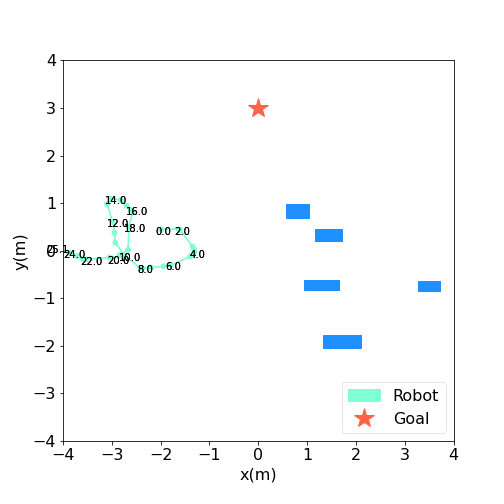
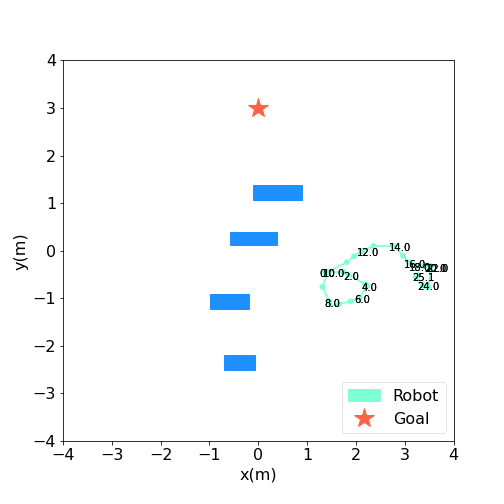
random obstacles with near 0 distance crashes check condition

diff --git a/crazyflie_env/envs/crazyflie_env.py b/crazyflie_env/envs/crazyflie_env.py
@@ -25,7 +25,7 @@ class CrazyflieEnv(gym.Env):
         self.random_init = True # randomly initialize robot position
         self.robot_po = True # partial observability of the robot
         self.random_obstacle = True
-        self.obstacle_num = 0
+        self.obstacle_num = None
         self._set_robot(Robot(self.robot_po))
 
         # # reward function
@@ -62,8 +62,8 @@ class CrazyflieEnv(gym.Env):
         self.left_wall = (self.BOTTOM_LEFT[0], self.BOTTOM_LEFT[1], self.UP_LEFT[0], self.UP_LEFT[1])
         self.walls = [self.front_wall, self.right_wall, self.back_wall, self.left_wall] # ((x1, y1), (x1', y1'))
 
-        self.obstacles = self.generate_obstacles(random_position=self.random_obstacle, obstacle_num=self.obstacle_num)
-        self.obstacle_segments = self.walls + self.obstacles2segments(self.obstacles) # list of segments (x1, y1, x1', y1')
+        #self.obstacles = self.generate_obstacles(random_position=self.random_obstacle, obstacle_num=self.obstacle_num)
+        #self.obstacle_segments = self.walls + self.obstacles2segments(self.obstacles) # list of segments (x1, y1, x1', y1')
 
         # visualization, store full state of the robot
         self.states = None
@@ -72,6 +72,10 @@ class CrazyflieEnv(gym.Env):
     def _set_robot(self, robot):
         self.robot = robot
         self.robot.time_step = self.time_step
+
+
+    def set_obstacle_num(self, num):
+        self.obstacle_num = num
 
 
     def obstacles2segments(self, obstacles=[]):
@@ -134,7 +138,7 @@ class CrazyflieEnv(gym.Env):
         else:
             # TODO: possible region where obstacle can exist (excluding goal and start region)
             # TODO: choose density of the obstacles (increase as learning goes on)
-            poses = [np.random.uniform(low=(-2.5, -2.5), high=(2.5, 2), size=(2,)) for _ in range(obstacle_num)]
+            poses = [np.random.uniform(low=(-1, -2.5), high=(1, 2), size=(2,)) for _ in range(obstacle_num)]
             wxs = [np.random.uniform(low=0.4, high=1.0) for _ in range(obstacle_num)]
             wys = [np.random.uniform(low=0.2, high=0.4) for _ in range(obstacle_num)]
             angles = [0 for i in range(obstacle_num)]
@@ -161,7 +165,7 @@ class CrazyflieEnv(gym.Env):
             self.obstacle_segments = self.walls + self.obstacles2segments(self.obstacles) # list of segments (x1, y1, x1', y1')
             too_close = True
             while too_close:
-                initial_position = np.random.uniform(low=(-3.5, -3.5), high=(3.5, 3.5), size=(2,))
+                initial_position = np.random.uniform(low=(-2.0, -3.5), high=(2.0, 3.5), size=(2,))
                 too_close, _ = self.check_far_enough(initial_position)
             assert too_close is False
             #initial_orientation = np.random.uniform(0.0, 2 * np.pi)
